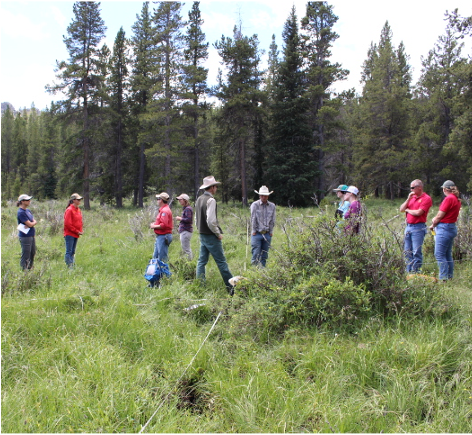
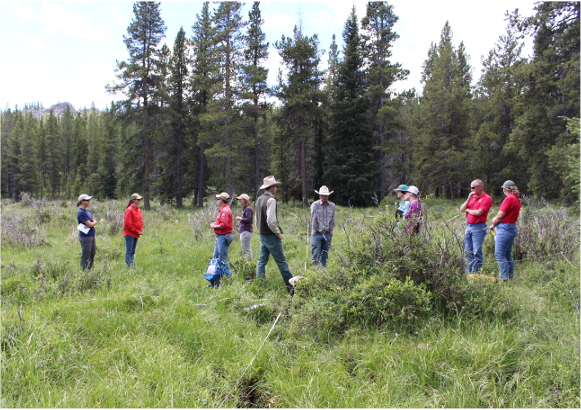
update ESA post

diff --git a/_posts/2021-08-03-ESA-2021-Presentation.md b/_posts/2021-08-03-ESA-2021-Presentation.md
@@ -1,9 +1,9 @@
 ---
-title: 'Presentation at the American Association of Geographers Annual Meeting'
+title: 'Presentation at the Ecological Society of America Annual Meeting'
 author: 'Tim Assal'
 date: 2021-08-03 00:00:00
 description: ESA2021, science communication, ecosystem monitoring, remote sensing, stakeholder engagement  
-featured_image: '/images/blog/Bighorn_banner.png'
+featured_image: '/images/blog/2017-BH-168.jpg'
 ---
 
 Tim will present research on long-term monitoring of riparian areas over broad scales at the [2021 Ecological Society of America Meeting]( https://www.esa.org/longbeach/). If you’re ‘at’ the conference check out my talk - [‘Connecting stakeholders across scales: monitoring long-term upland and riparian vegetation trends to inform habitat management in a mountainous environment’]( https://t.co/jwgMcvOTKI?amp=1) - at 12 pm PDT. More information and a link to a recent publication on this work is available [here](https://assallab.org/blog/riparianmonitoring-ecologicalindicators-pub). 
@@ -11,7 +11,7 @@ Tim will present research on long-term monitoring of riparian areas over broad s
 <p align="center">
   <img alt="wgfd-crew" src="/images/blog/wgfd-crew.png">
 </p> 
-<center>Talking sampling protocols with stakeholders in the field.</center>
+<center>Talking shop with stakeholders in the field.</center>
 <br>
 
 ***Top image: The Bighorn Mountains, Wyoming.***
